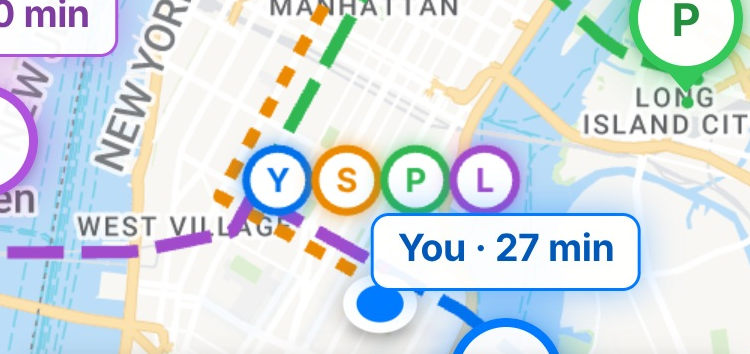
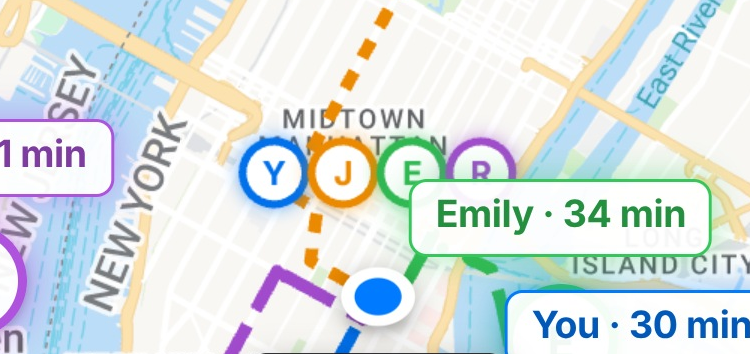
Advert: the Handcraft capture; the crash framed on all four times there
Claude-Session: https://claude.ai/code/session_01Lw4AcJbjKn2ALgeq2w8Nf1

diff --git a/promo/src/shots/Race.tsx b/promo/src/shots/Race.tsx
@@ -25,7 +25,7 @@ export const RACE = {
   result: Math.min(last, tap + 298), // the result: the place, everyone's routes, the sheet
 };
 /** The spot (app px, in this clip's view), where everyone gathers. */
-const SPOT = CAP.raceSpot ?? { x: 209, y: 457 }; // (measured on the clip: Mama Fina's, Avenue A)
+const SPOT = CAP.raceSpot ?? { x: 218, y: 450 }; // (measured on the clip: Handcraft, 3rd Avenue)
 
 // ---- the edit, as [output frame, clip frame] knots (linear between knots) ----
 const A0 = drag - 4;
@@ -73,11 +73,11 @@ export const Race: React.FC = () => {
     // the floods: the whole phone turning slowly, its line above it (held until the line has gone)
     { f: FLOODS + 22, cam: { ...whole, zoom: 0.74, rx: 3, ry: -4 }, ease: Easing.inOut(Easing.sin) },
     // in towards the spot through the stare
-    { f: CRASH - 4, cam: { x: spot.x + 4, y: spot.y - 150, zoom: 1.04, rx: 0, ry: 0 }, ease: Easing.inOut(Easing.sin) },
+    { f: CRASH - 4, cam: { x: spot.x - 30, y: spot.y - 150, zoom: 1.04, rx: 0, ry: 0 }, ease: Easing.inOut(Easing.sin) },
     // the crash (6f, ease-in), stopping dead (impact), held while everyone gathers: framed so all four
     // times and the place's name are in (the map from Ryan's label on the left to Emily's on the right)
-    { f: CRASH + 6, cam: { x: spot.x + 4, y: spot.y - 185, zoom: 1.54 }, ease: Easing.bezier(0.55, 0, 0.7, 1) },
-    { f: HOLD, cam: { x: spot.x + 4, y: spot.y - 190, zoom: 1.58 } },
+    { f: CRASH + 6, cam: { x: spot.x - 35, y: spot.y - 175, zoom: 1.5 }, ease: Easing.bezier(0.55, 0, 0.7, 1) },
+    { f: HOLD, cam: { x: spot.x - 35, y: spot.y - 180, zoom: 1.54 } },
     // back out to the whole phone as the app zooms out to its result: the place, and the line above
     { f: HOLD + 22, cam: { ...whole, zoom: 0.74 }, ease: Easing.inOut(Easing.cubic) },
     { f: GO_DUR, cam: { ...whole, zoom: 0.77 }, ease: Easing.inOut(Easing.sin) },

diff --git a/promo/capture/spot-card.py b/promo/capture/spot-card.py
@@ -5,5 +5,5 @@ from PIL import Image
 # (python3 spot-card.py --dark: the same, from the dark-mode capture)
 D = '/home/user/Claude-app/promo/public/captures' + ('-dark' if '--dark' in sys.argv else '')
 im = Image.open(f'{D}/raw/go/00262.jpg').convert('RGB')
-im.crop((250, 1068, 1000, 1422)).save(f'{D}/spot-card.png')  # (New York: everyone's routes into Mama Fina's, its label just below)
+im.crop((279, 1051, 1029, 1405)).save(f'{D}/spot-card.png')  # (New York: everyone's routes into Handcraft, its label just below)
 print('spot-card', im.size)
